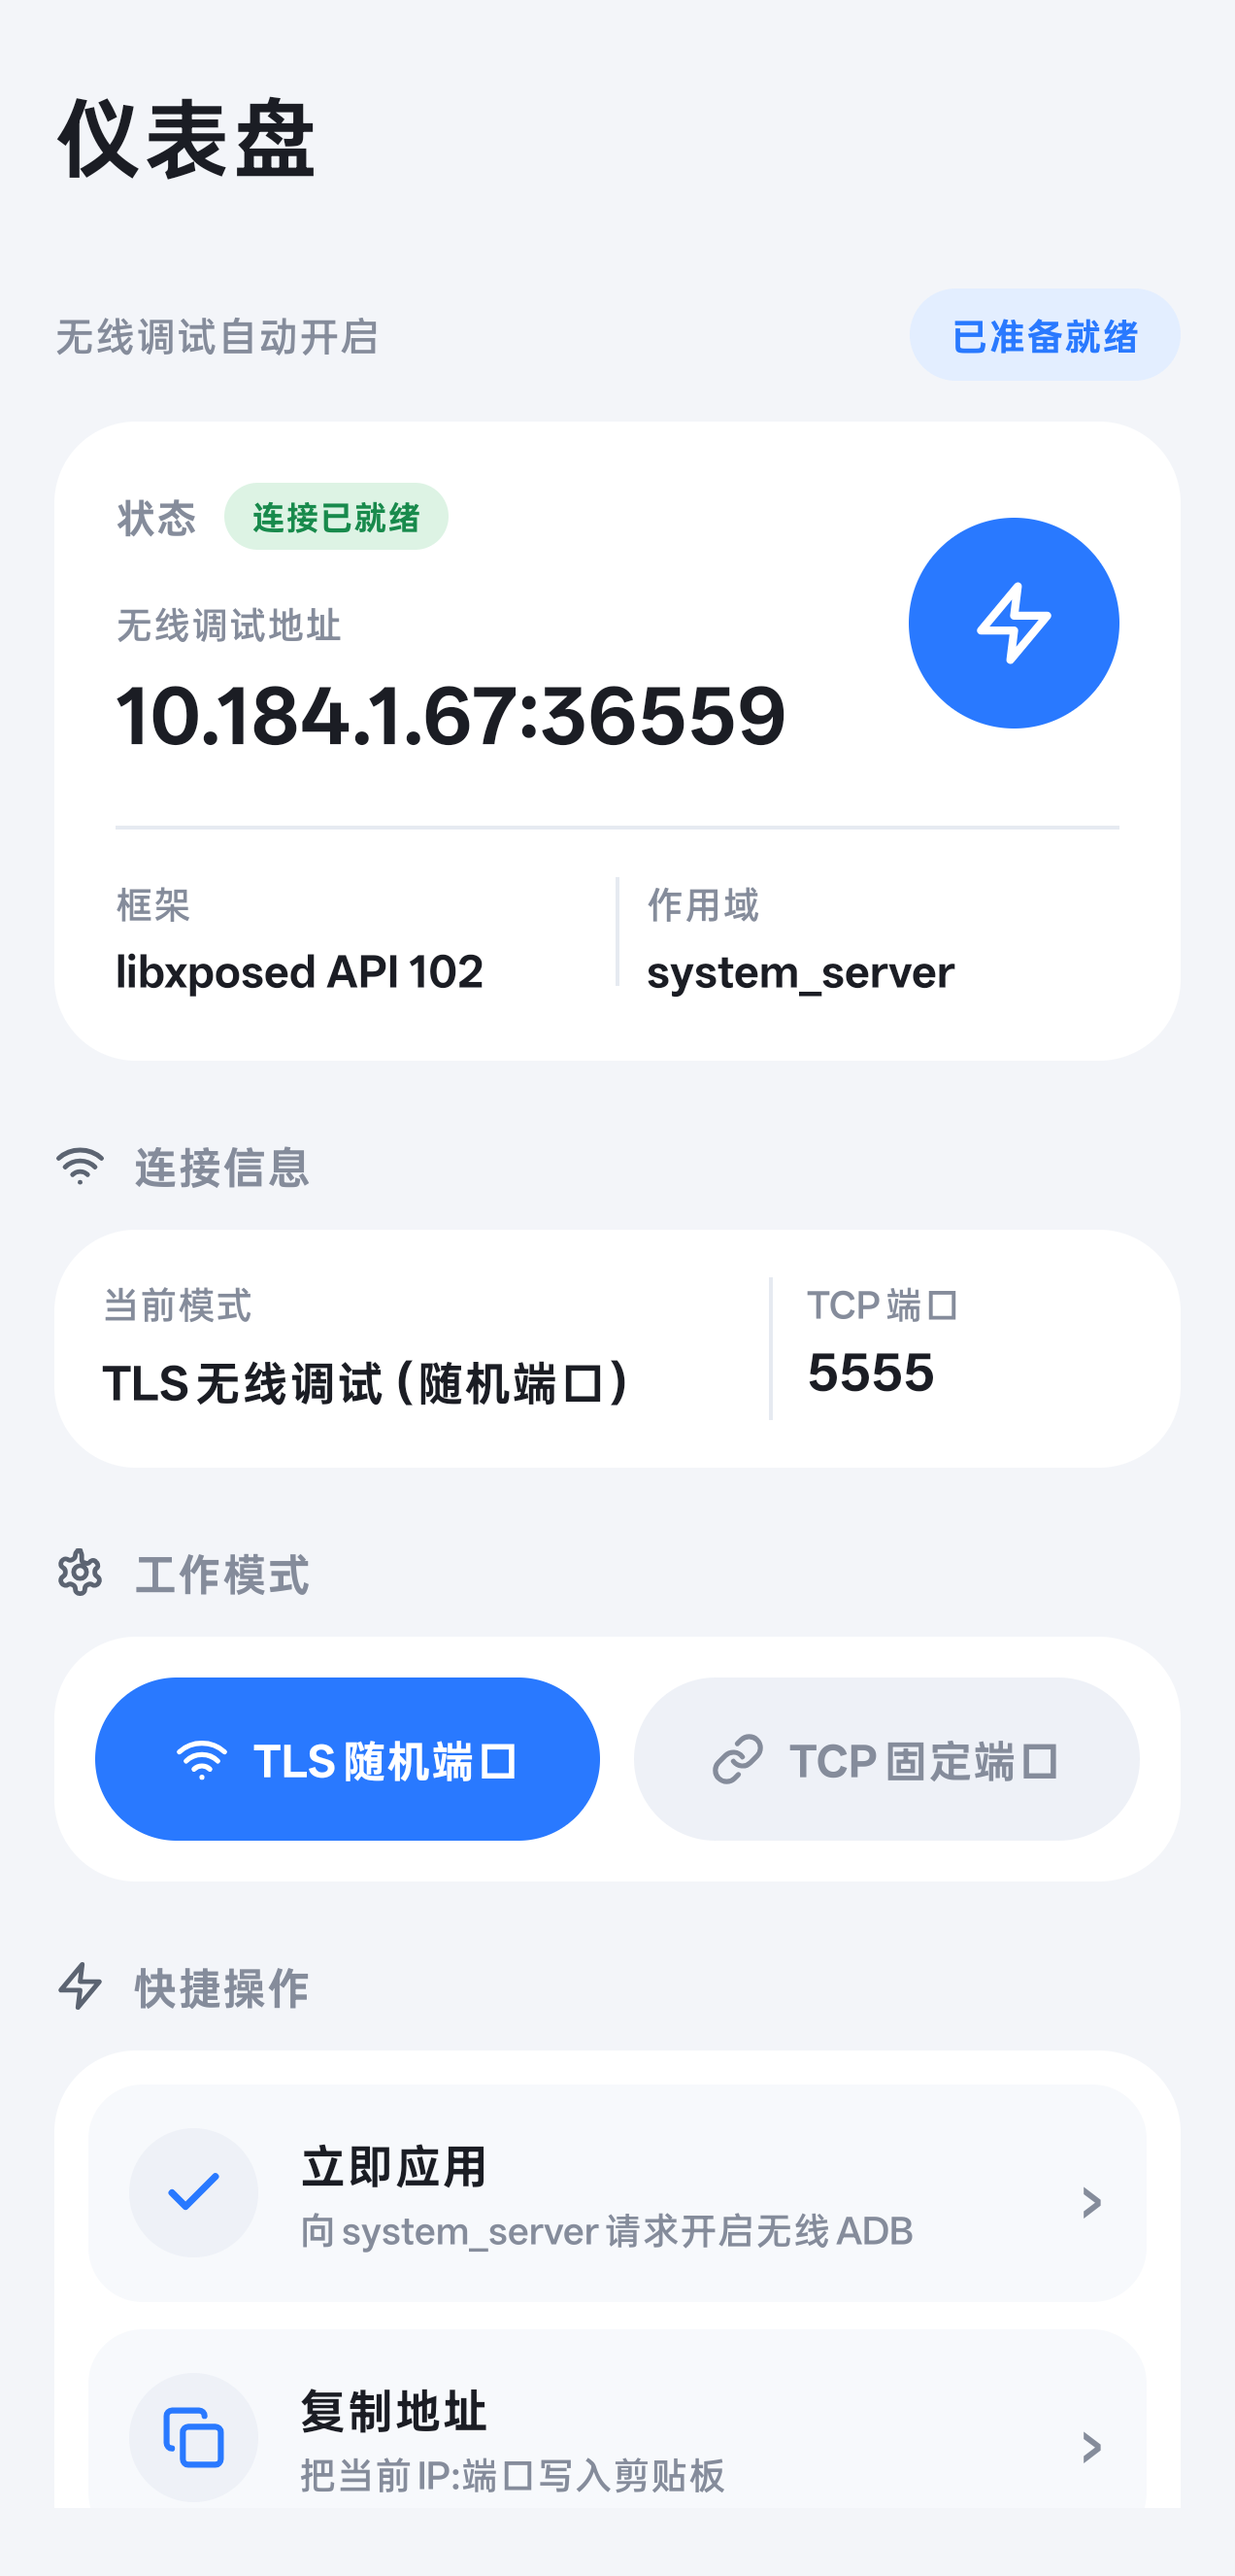
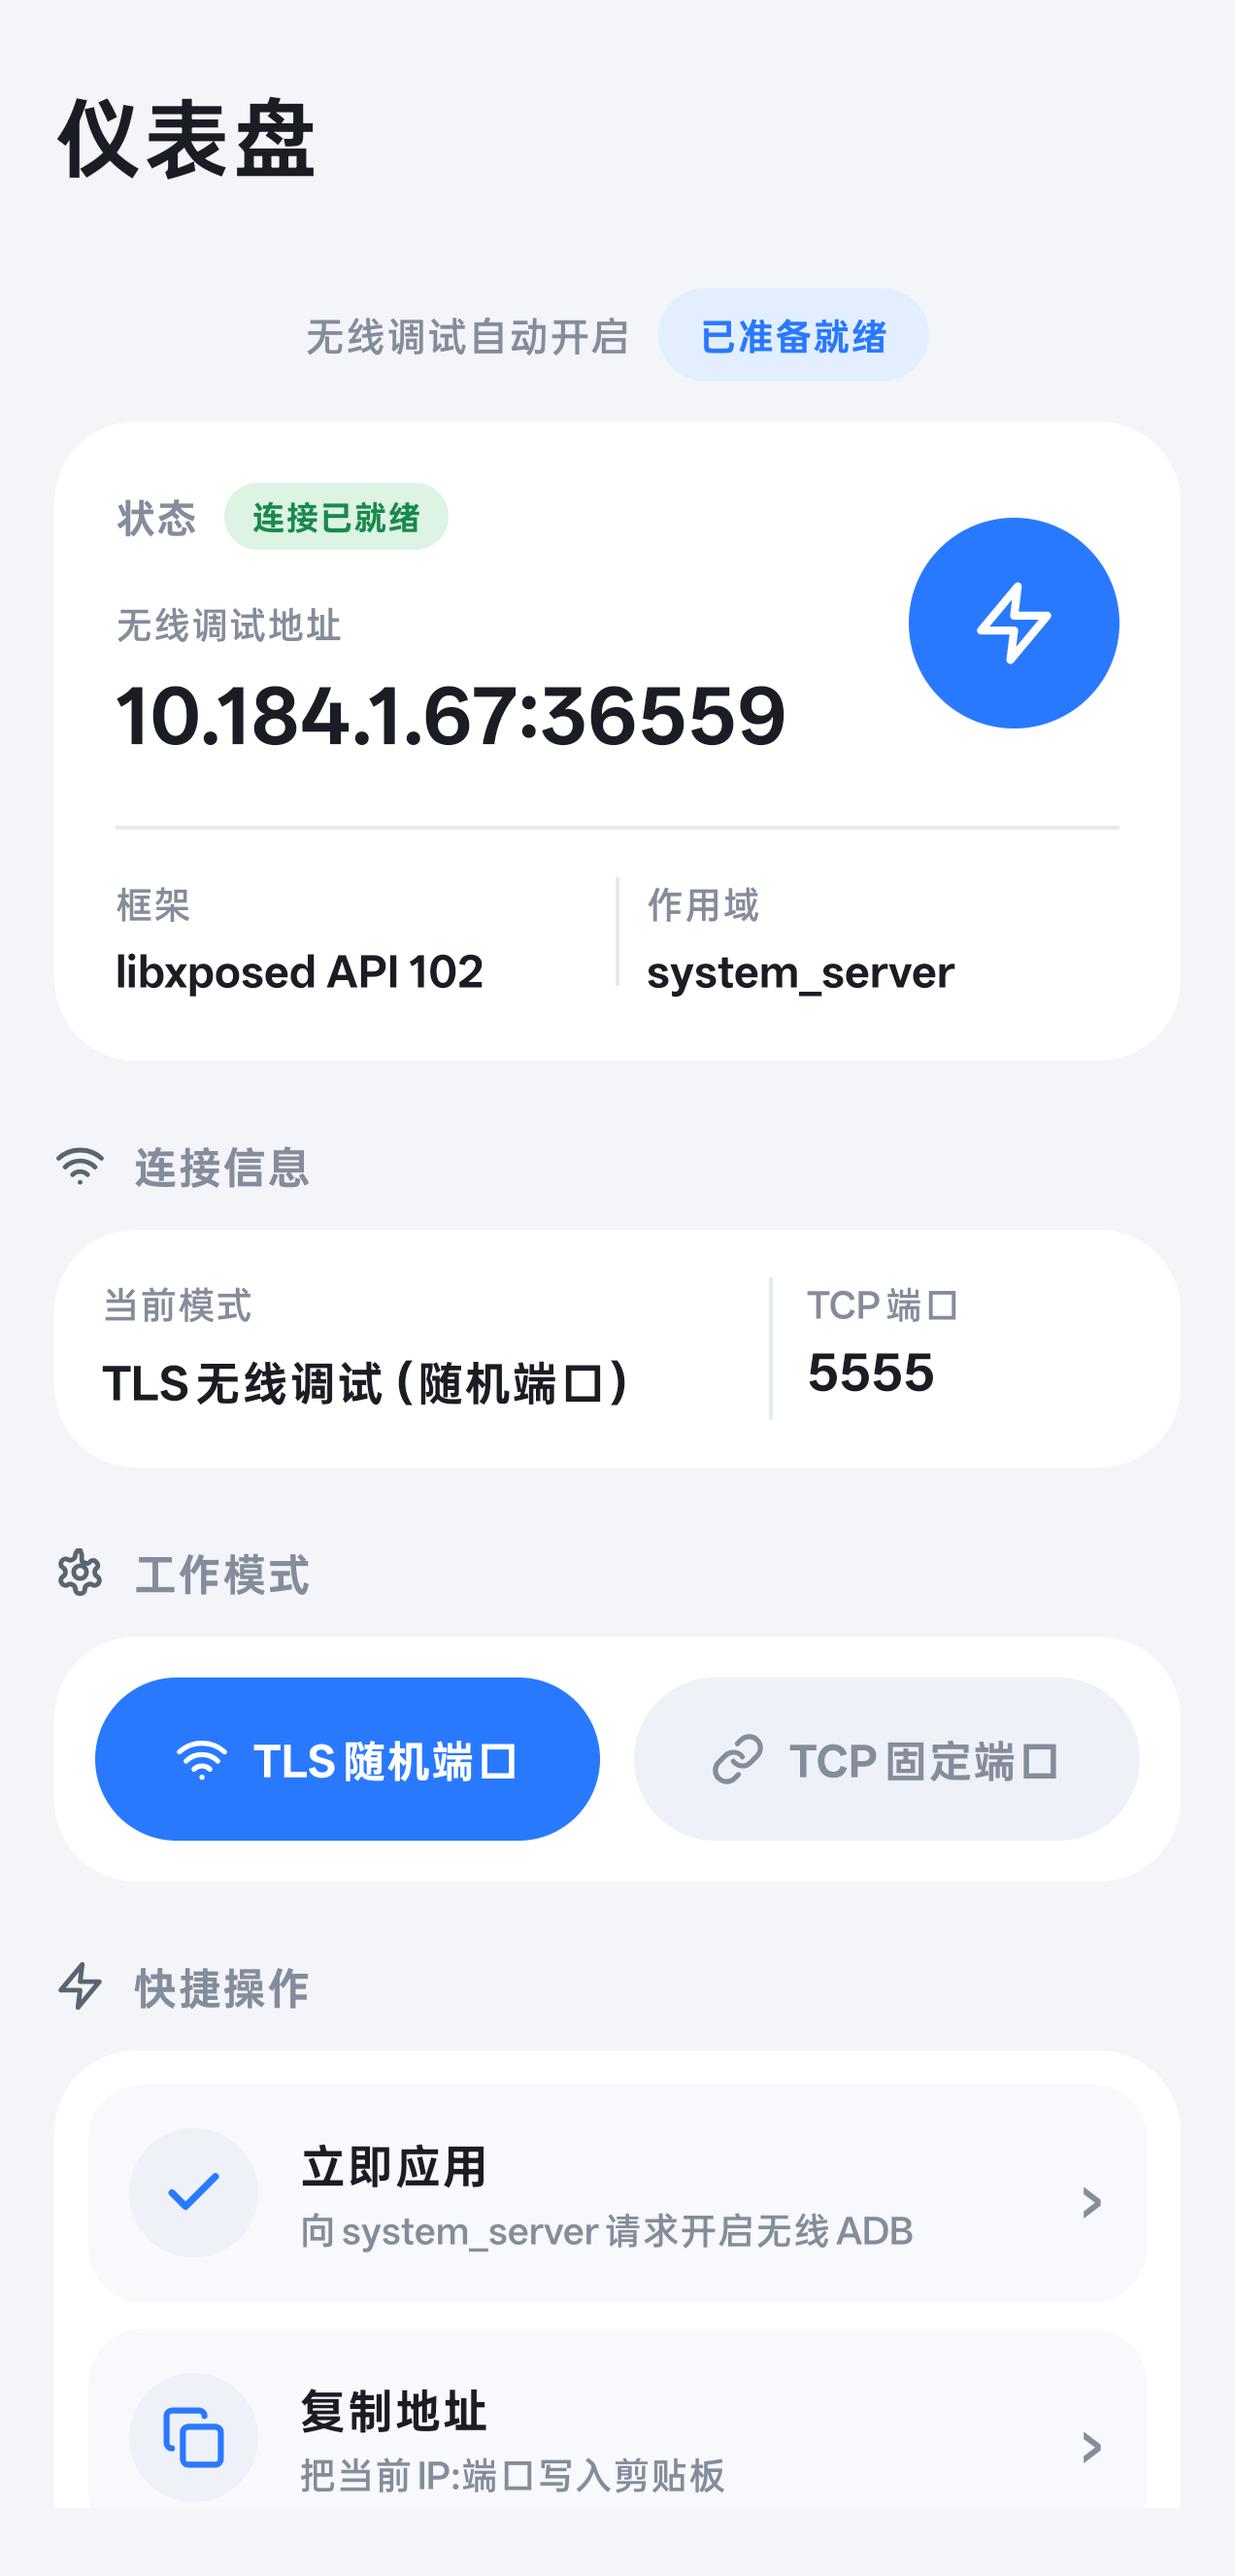
style: 标题行与状态胶囊居中靠拢，补回 Hero 卡左右边距 (1.2.9)
- 「无线调试自动开启」改为 wrap_content，与「已准备就绪」胶囊相邻
  整体居中（gravity=center），不再分居左右两端
- 补回取消吸顶时遗漏的 16dp 左右边距：Hero 状态卡与标题行各加
  layout_marginStart/End=16dp（原由 header_content 的 padding 提供）
- docs/screenshot.png 更新为 1.2.9 无状态栏截图
- README 版本号 1.2.8 -> 1.2.9
- 版本升至 versionCode 31 / versionName 1.2.9

Changed region(s): [[0.0307, 0.1237, 0.5212, 0.1546], [0.5519, 0.1237, 0.7358, 0.1546], [0.7665, 0.1237, 0.9198, 0.1546]]

diff --git a/README.md b/README.md
@@ -3,7 +3,7 @@
 **LSPosed 模块**：开机首次解锁后自动开启无线 ADB，并在状态页查看地址与日志。
 
 包名：`dev.wirelessadb.autostart`  
-当前版本：`1.2.8`（libxposed API 102 迁移版，面向一加 15 / ColorOS 17 / Android 17；状态页 Material You 单页 Dashboard、统一线性图标、**整页自由滚动**（无吸顶固定）、桌面图标蓝渐变 + Wi-Fi 信号、app 改名「无线ADB」、无底部导航）
+当前版本：`1.2.9`（libxposed API 102 迁移版，面向一加 15 / ColorOS 17 / Android 17；状态页 Material You 单页 Dashboard、统一线性图标、**整页自由滚动**（无吸顶固定）、桌面图标蓝渐变 + Wi-Fi 信号、app 改名「无线ADB」、无底部导航）
 
 <p align="center">
   <img src="docs/screenshot.png" alt="无线 ADB 自启状态页" width="360" />
